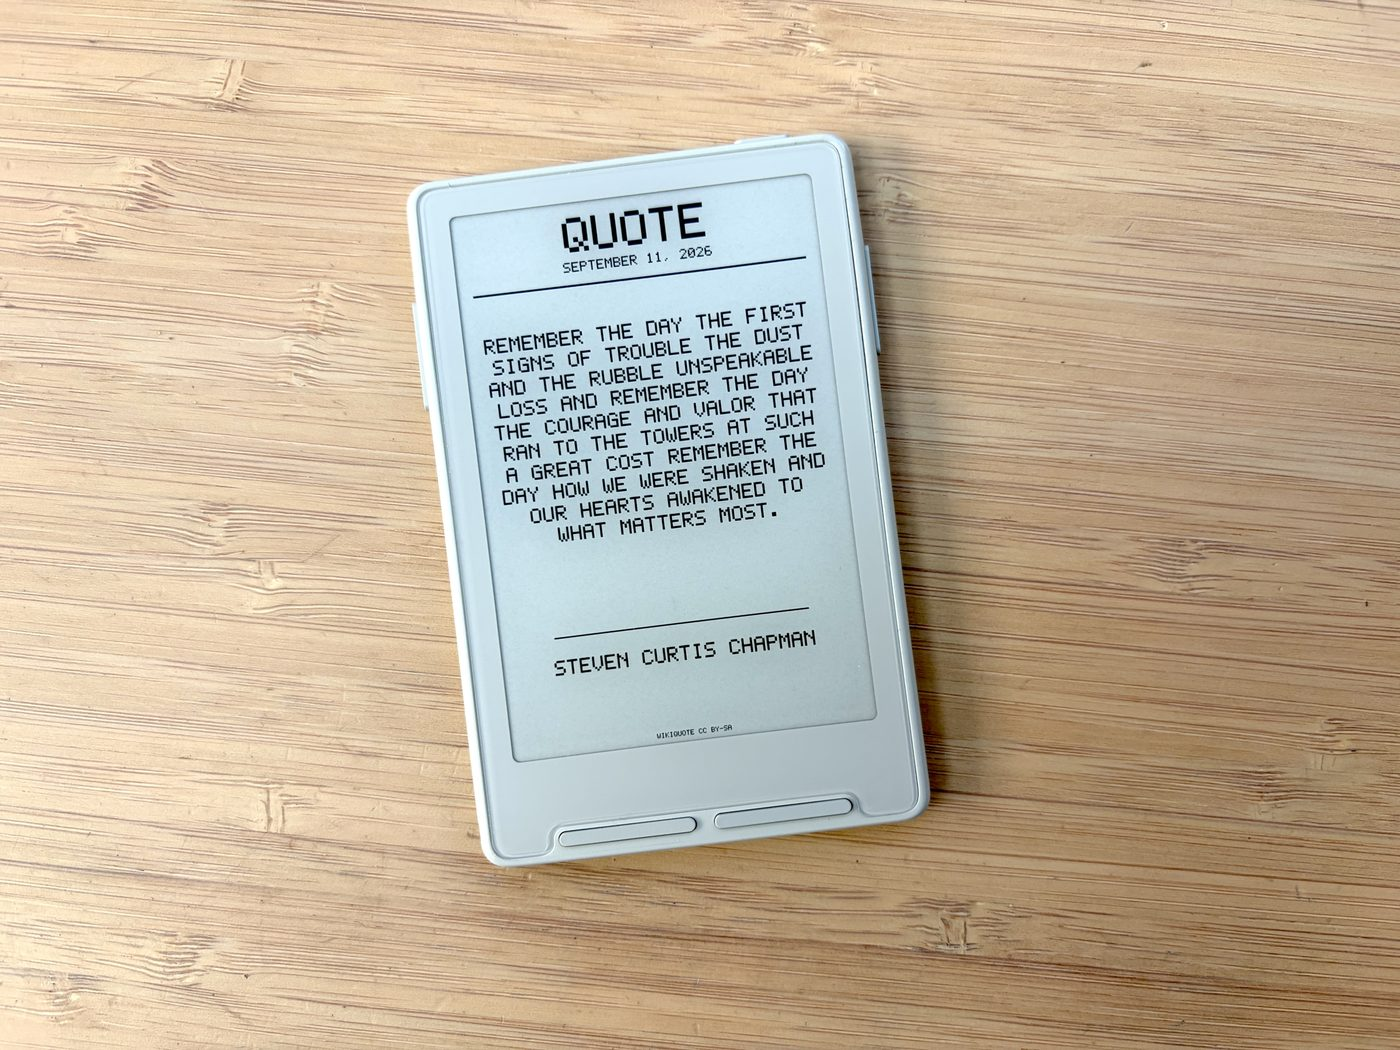
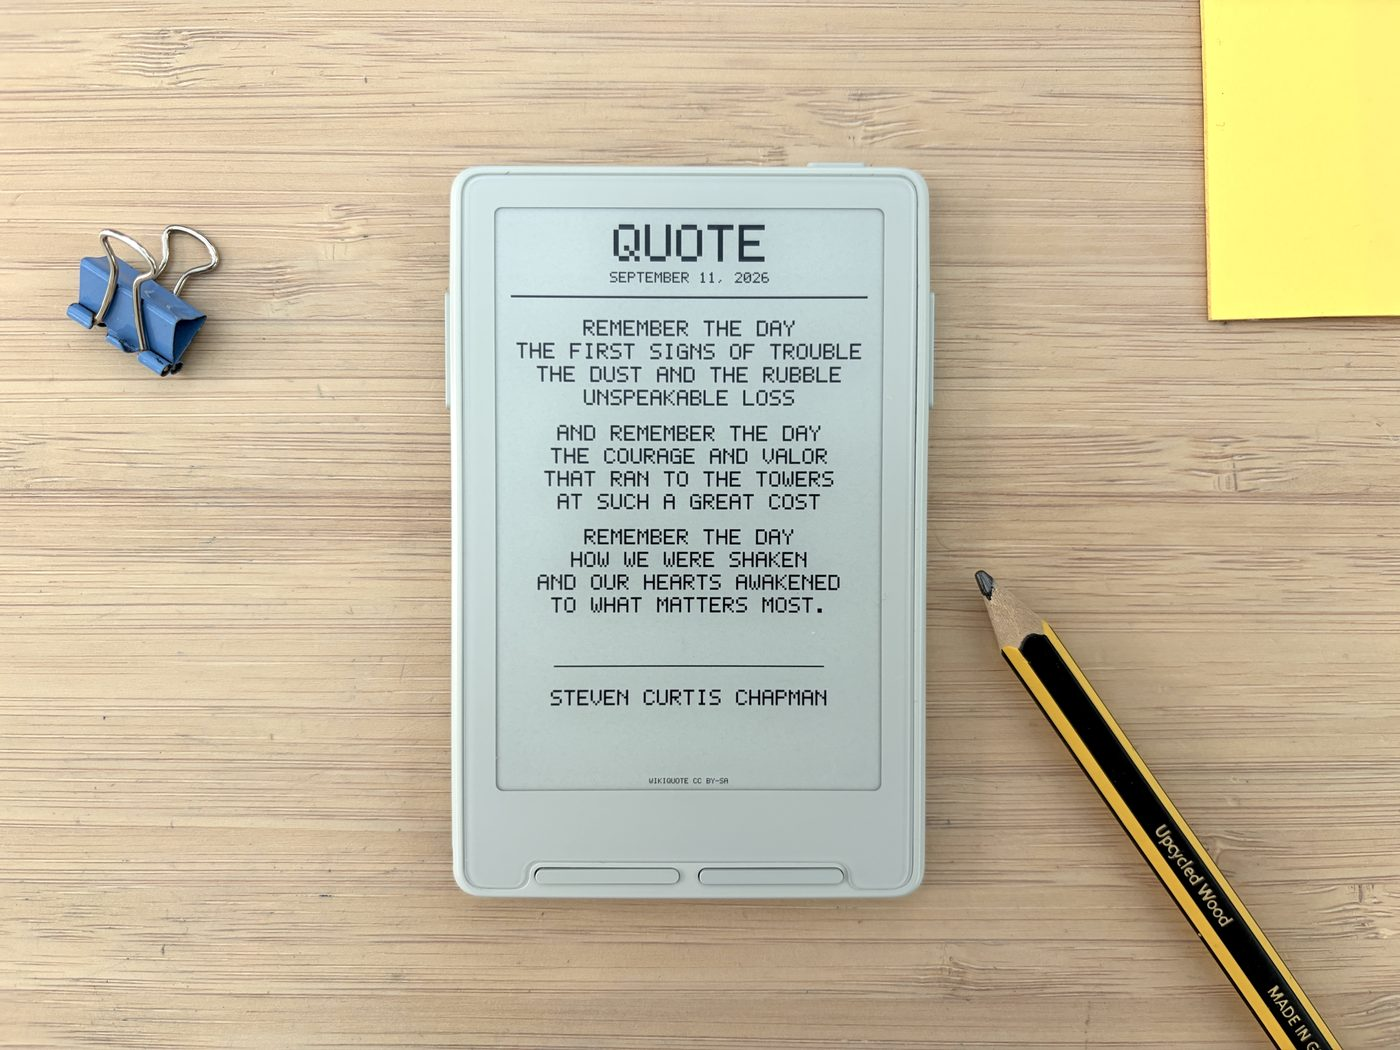
docs: refresh the cover photo and show landscape too
Replace the cover with a photo of the quote card carrying its verse
layout, resized to 1400px and re-encoded (4.1 MB -> 226 KB) with the
camera make, model, software and timestamp dropped.

Add the eight cards again in landscape. Each is laid out for the wide
panel rather than rotated, and the differences are worth showing: the
forecast becomes a row, the solar legend sits beside the orbits, the
astro table beside the wheel. The quote entry now says that verse keeps
its line breaks in portrait but flows in landscape, which the two
galleries put side by side.

Claude-Session: https://claude.ai/code/session_017RH7iJ888bk9azmQDYduaR

diff --git a/README.md b/README.md
@@ -77,8 +77,8 @@ and says so in the footer when it does.
 **`/today.bmp`** — On this day, from Wikipedia's feed. `lang=en` selects the language edition, so a
 German or Japanese reader gets that edition's events rather than a translation.
 
-**`/quote.bmp`** — Wikiquote's quote of the day. Poems and lyrics keep their line breaks; prose
-flows to fill the card.
+**`/quote.bmp`** — Wikiquote's quote of the day. In portrait, poems and lyrics keep their line
+breaks; prose flows to fill the card. Landscape has less height, so a long verse flows too.
 
 **`/bitcoin.bmp`** — BTC/USD, the 24-hour change, and a seven-day line chart with its high and low.
 
@@ -89,9 +89,34 @@ JPL's Keplerian elements. No upstream service, so it cannot fail.
 (default), `whole` or `equal`; `orb=1..12` for the aspect orb. Pass `date` and `time` for a chart of
 some other moment rather than now. Also computed entirely on the Worker.
 
-> The renders above are the Worker's own output at the X3's 528×792. The clock, moon, solar and astro
-> cards show genuinely computed values; the weather and bitcoin figures are sample data, since those
-> cards read live services.
+#### The same eight in landscape
+
+Every card lays itself out again for a landscape panel rather than being rotated, so the wide shape
+is used rather than tolerated: the weather forecast becomes a row, the solar legend moves alongside
+the orbits, and the astro chart puts its positions table beside the wheel.
+
+<table>
+<tr>
+<td width="50%"><img src="./docs/images/cards/landscape/clock.png" alt="Clock card, landscape"></td>
+<td width="50%"><img src="./docs/images/cards/landscape/weather.png" alt="Weather card, landscape"></td>
+</tr>
+<tr>
+<td><img src="./docs/images/cards/landscape/moon.png" alt="Moon card, landscape"></td>
+<td><img src="./docs/images/cards/landscape/today.png" alt="Today in history card, landscape"></td>
+</tr>
+<tr>
+<td><img src="./docs/images/cards/landscape/quote.png" alt="Quote card, landscape"></td>
+<td><img src="./docs/images/cards/landscape/bitcoin.png" alt="Bitcoin card, landscape"></td>
+</tr>
+<tr>
+<td><img src="./docs/images/cards/landscape/solar.png" alt="Solar system card, landscape"></td>
+<td><img src="./docs/images/cards/landscape/astro.png" alt="Astro chart card, landscape"></td>
+</tr>
+</table>
+
+> The renders above are the Worker's own output, at the X3's 528×792 and 792×528. The clock, moon,
+> solar and astro cards show genuinely computed values; the weather and bitcoin figures are sample
+> data, since those cards read live services.
 
 Open the Worker's root URL for the full parameter list, and `/locations.txt` for the 81 location
 codes.
